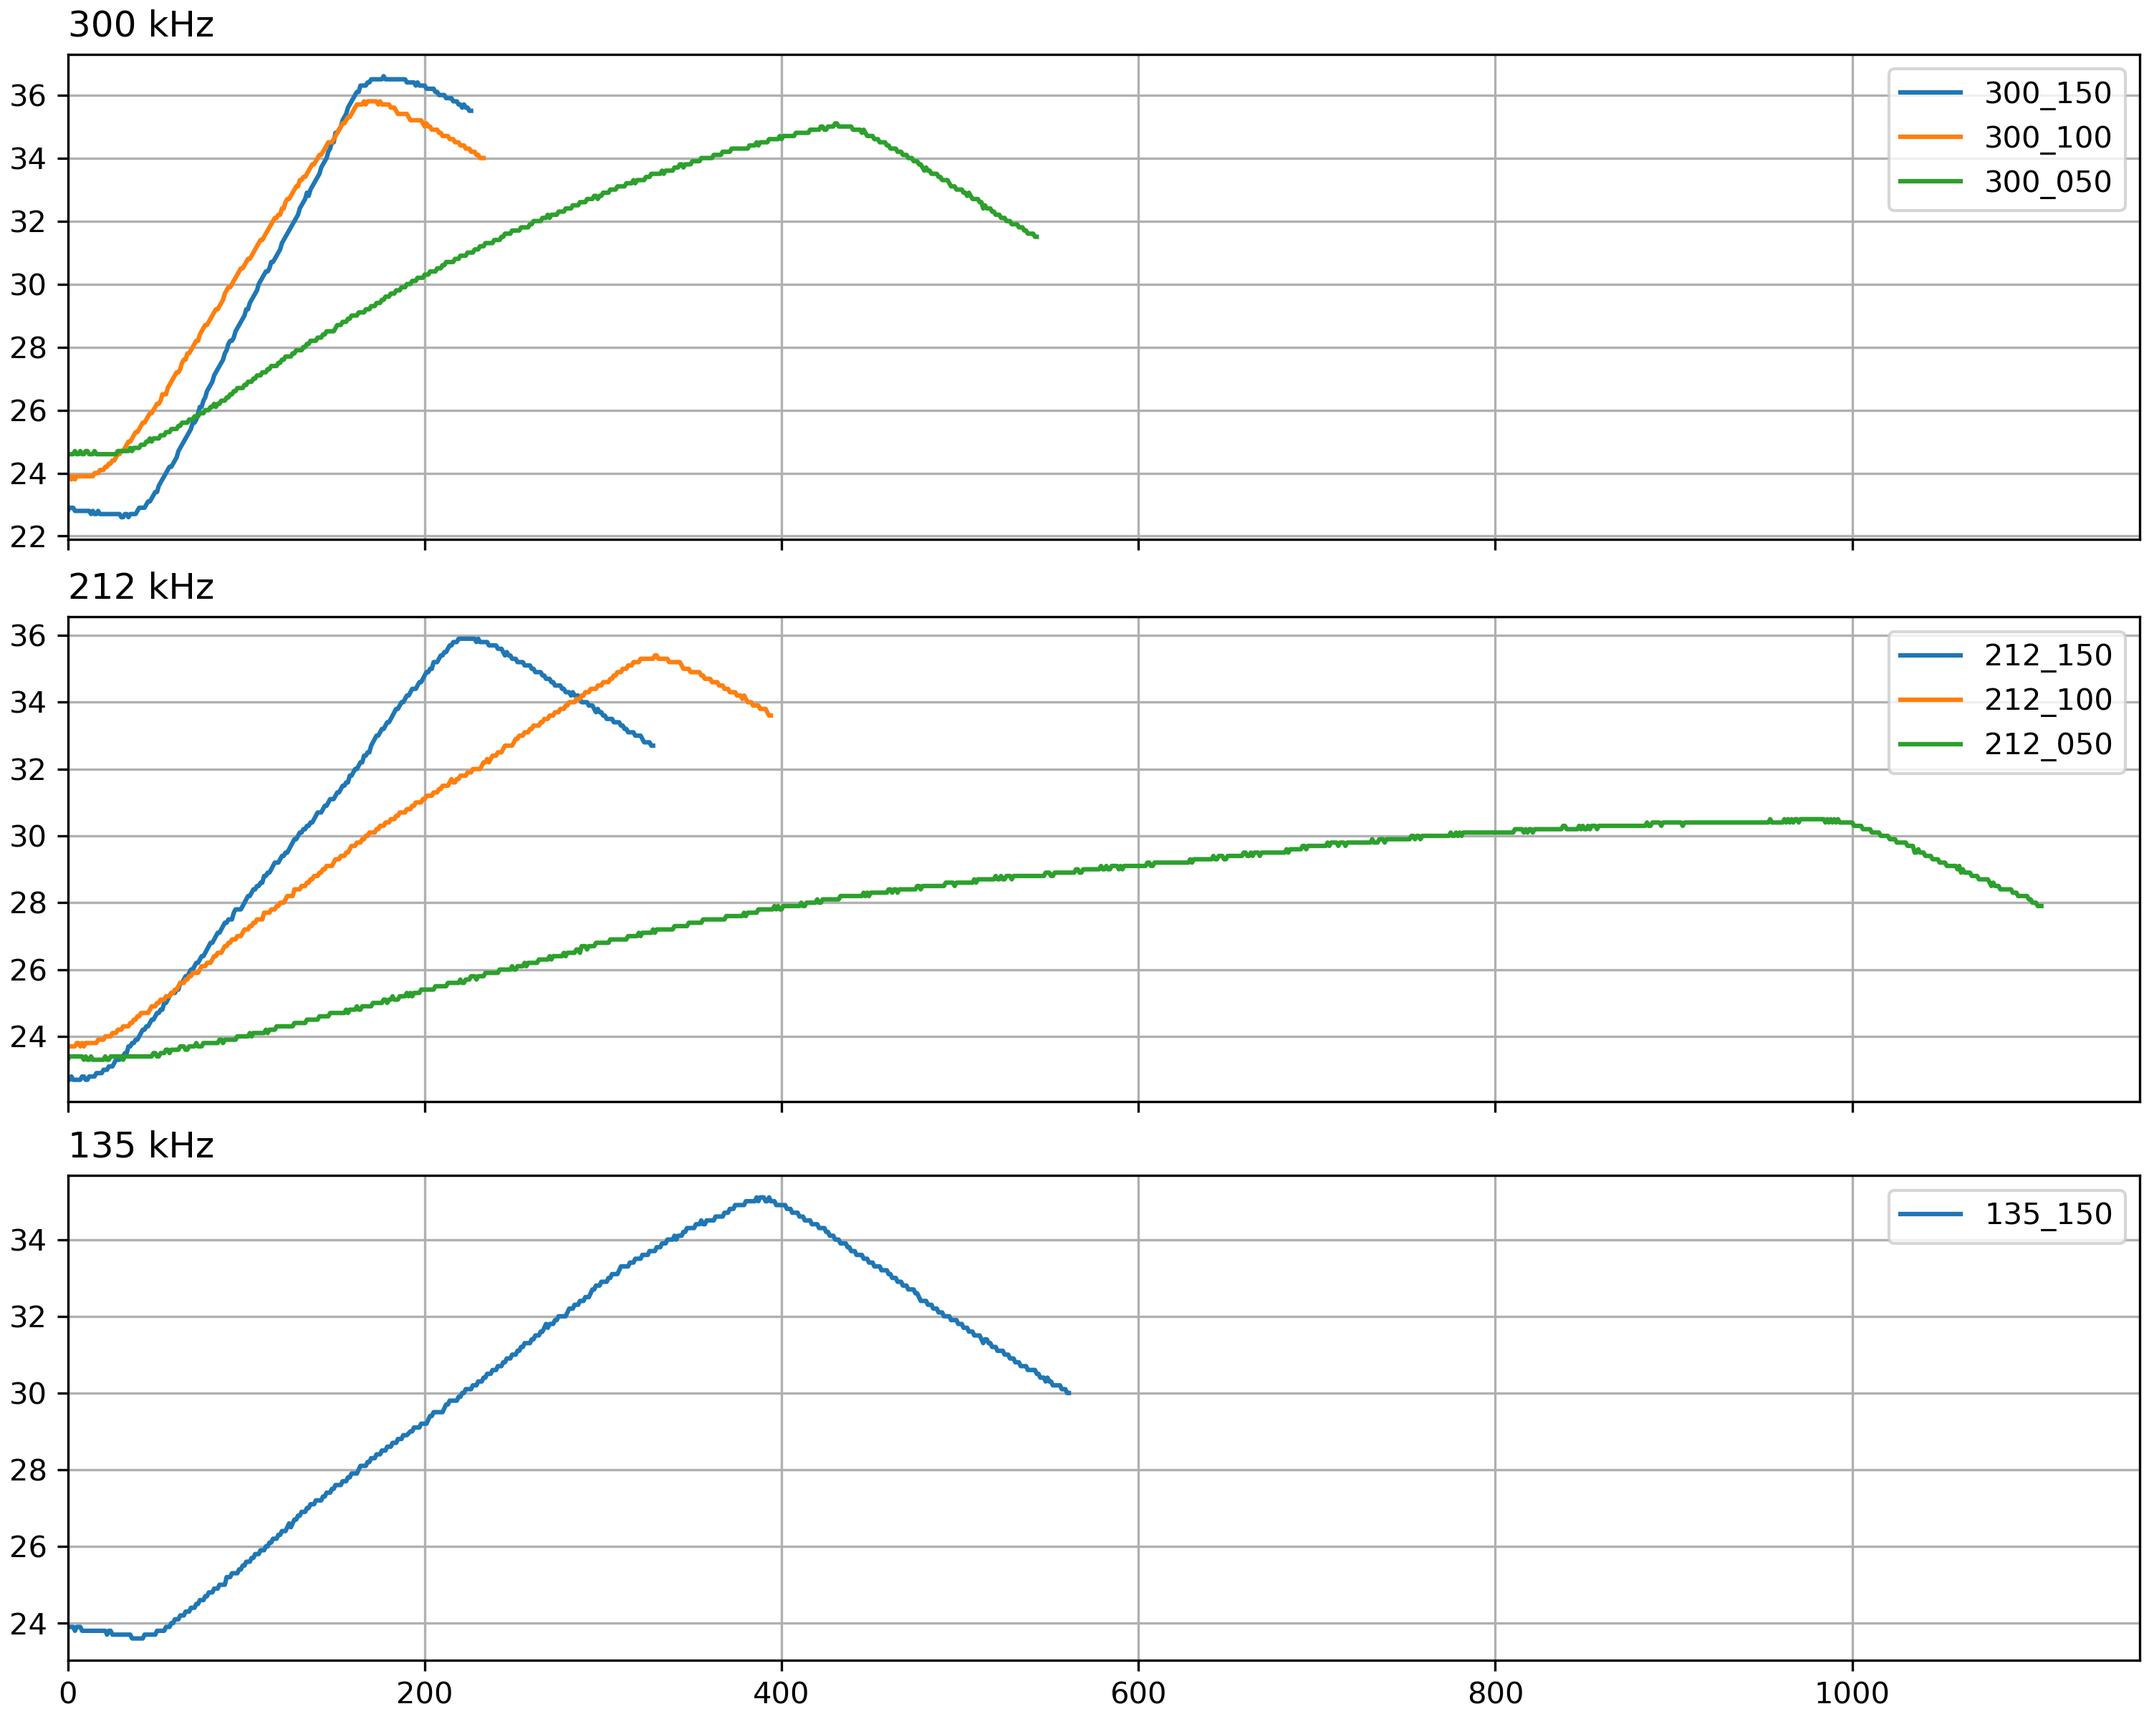
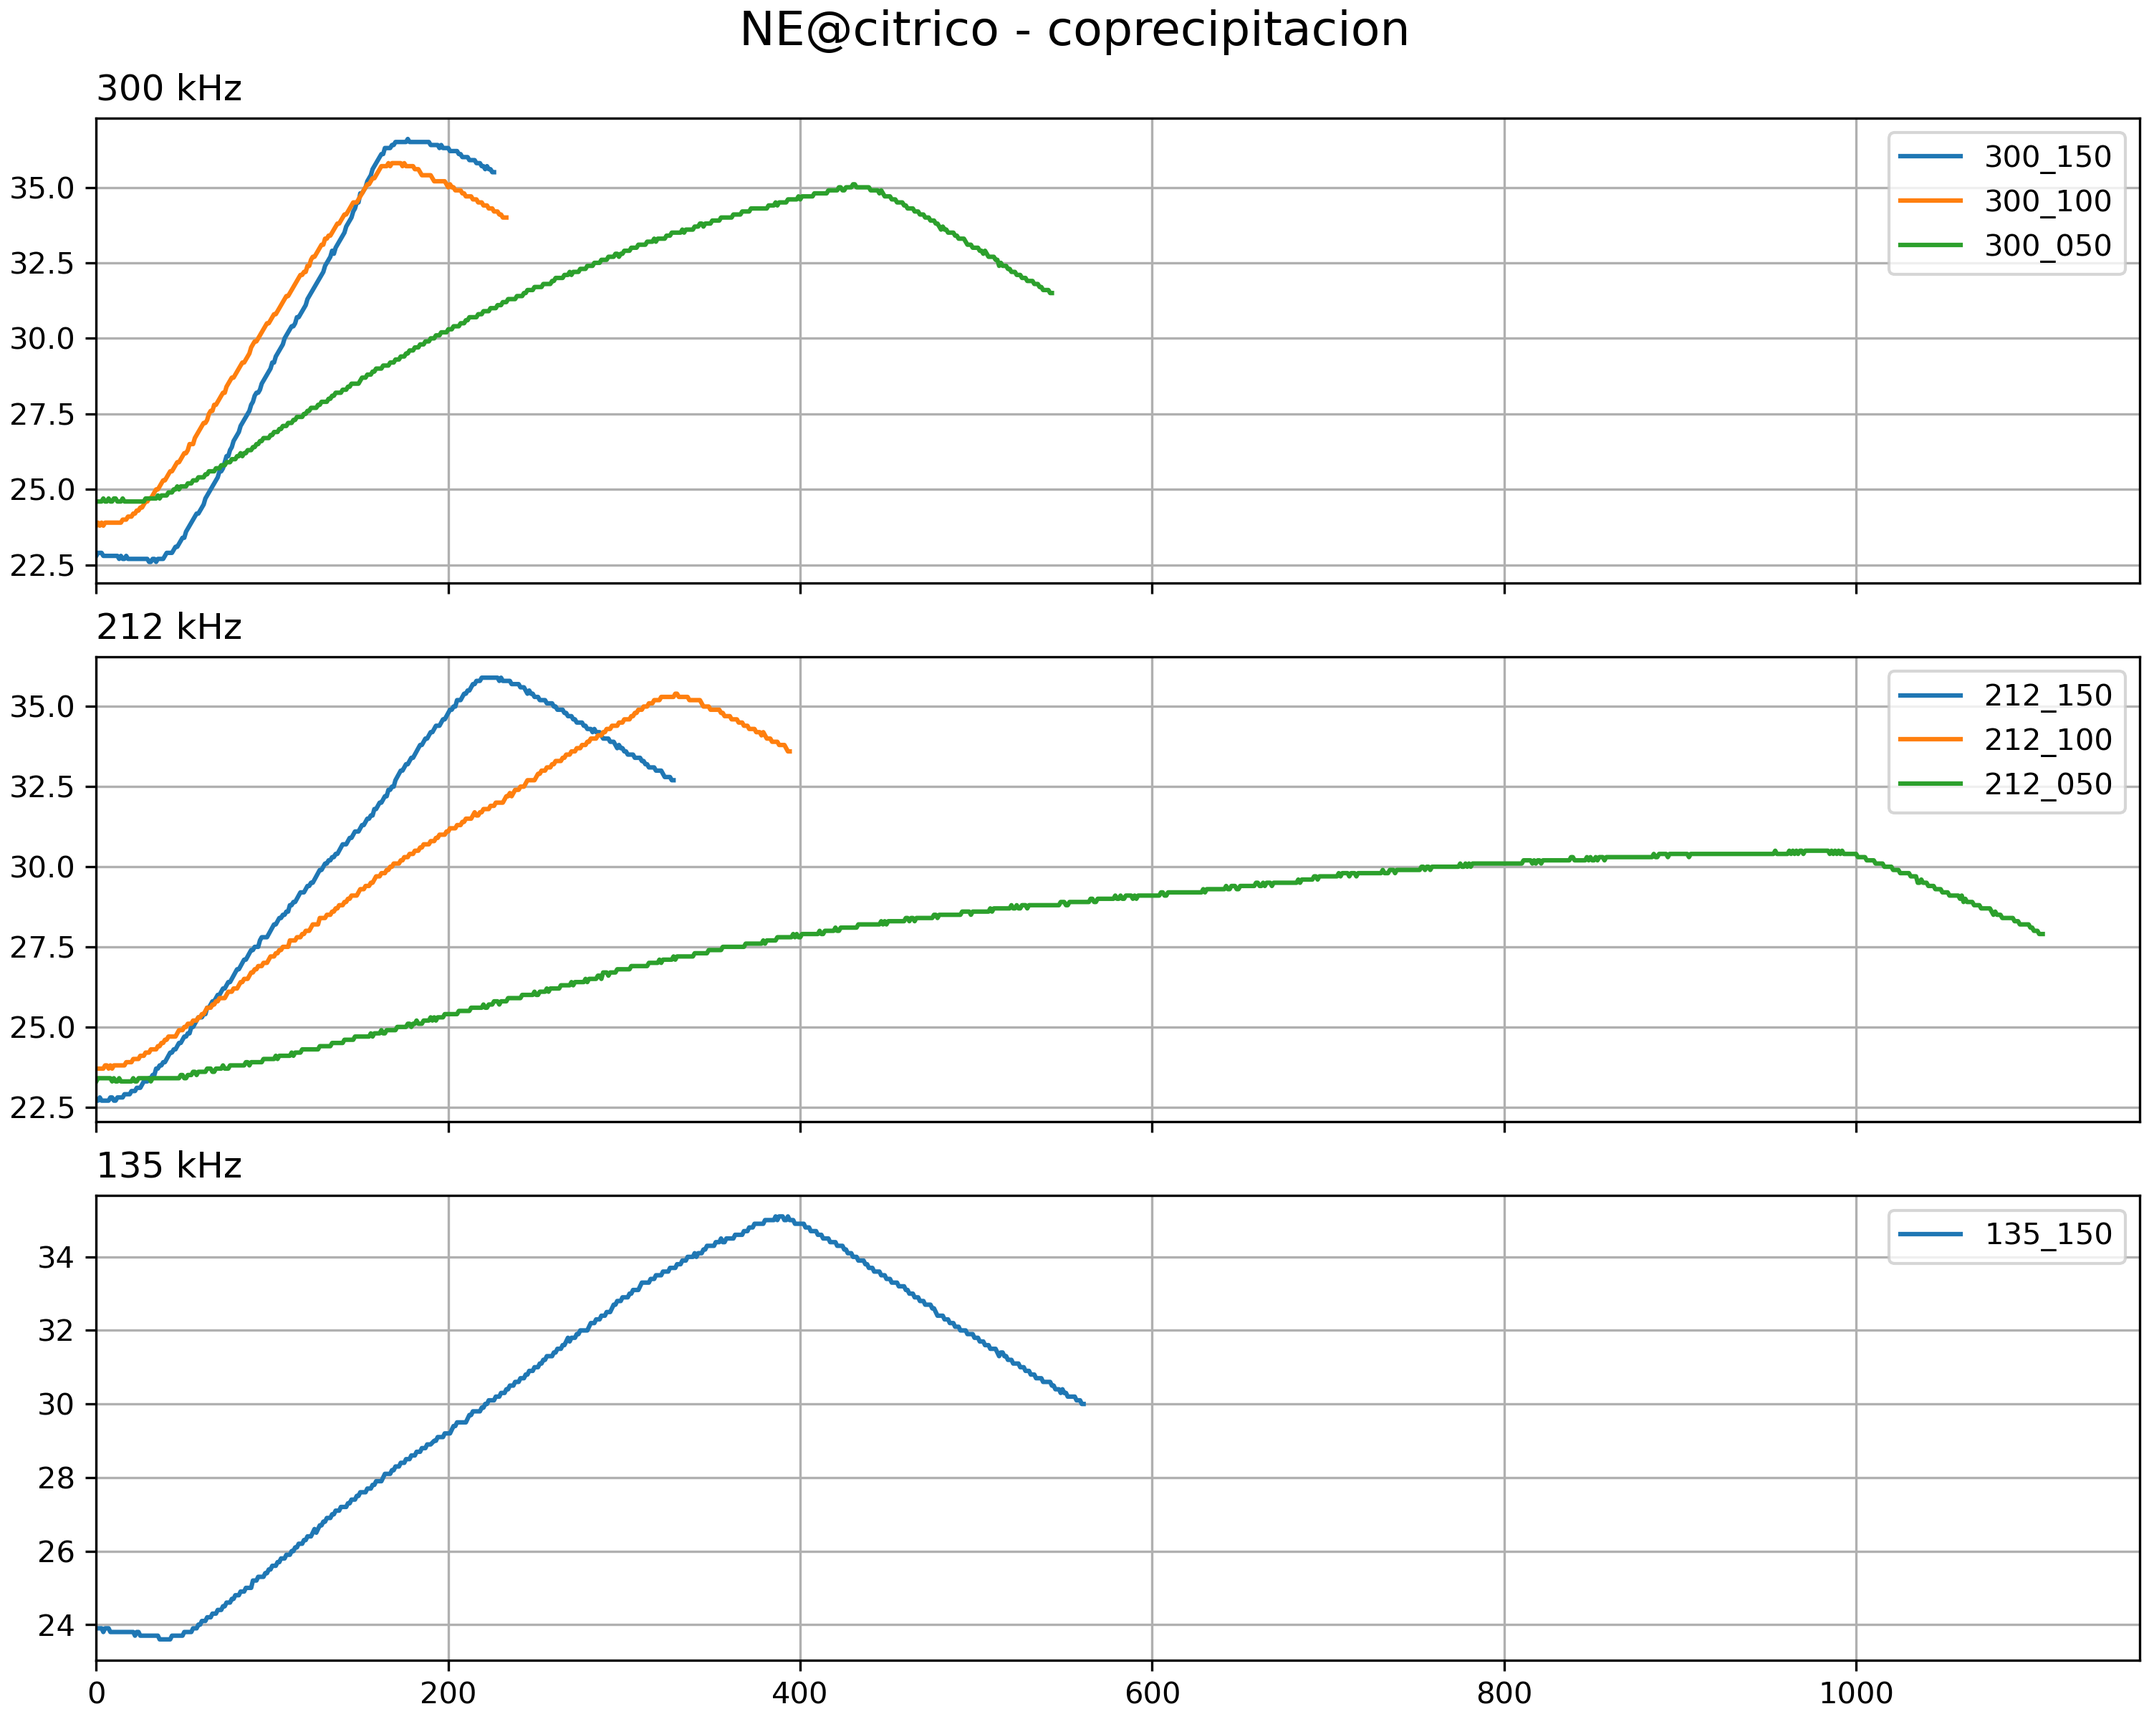
CSAR

diff --git a/CSAR.py b/CSAR.py
@@ -27,65 +27,164 @@ def lector_templog(path):
 
     return timestamp,temp_CH1, temp_CH2
 #%% Levanto data
+#NE
 # path_agua='250624_120427_agua.csv'
-path_300_150='NE@citrato - coprecipitacion/CSAR/260205_044538_300_150.csv'
-path_300_100='NE@citrato - coprecipitacion/CSAR/260205_045254_300_100.csv'
-path_300_050='NE@citrato - coprecipitacion/CSAR/260205_045843_300_050.csv' 
+path_NE_300_150='NE@citrato - coprecipitacion/CSAR/260205_044538_300_150.csv'
+path_NE_300_100='NE@citrato - coprecipitacion/CSAR/260205_045254_300_100.csv'
+path_NE_300_050='NE@citrato - coprecipitacion/CSAR/260205_045843_300_050.csv' 
 
-path_212_150='NE@citrato - coprecipitacion/CSAR/260205_051305_212_150.csv'
-path_212_100='NE@citrato - coprecipitacion/CSAR/260205_052035_212_100.csv'
-path_212_050='NE@citrato - coprecipitacion/CSAR/260205_052900_212_050.csv'
+path_NE_212_150='NE@citrato - coprecipitacion/CSAR/260205_051305_212_150.csv'
+path_NE_212_100='NE@citrato - coprecipitacion/CSAR/260205_052035_212_100.csv'
+path_NE_212_050='NE@citrato - coprecipitacion/CSAR/260205_052900_212_050.csv'
 
-path_135_150='NE@citrato - coprecipitacion/CSAR/260205_042615_135_150.csv'
+path_NE_135_150='NE@citrato - coprecipitacion/CSAR/260205_042615_135_150.csv'
 
-# # # t_agua,T_agua,_=lector_templog(path_agua)
-t_300_150,T_300_150,_=lector_templog(path_300_150)
-t_300_100,T_300_100,_=lector_templog(path_300_100)
-t_300_050,T_300_050,_=lector_templog(path_300_050)
+t_NE_300_150,T_NE_300_150,_=lector_templog(path_NE_300_150)
+t_NE_300_100,T_NE_300_100,_=lector_templog(path_NE_300_100)
+t_NE_300_050,T_NE_300_050,_=lector_templog(path_NE_300_050)
 
-t_212_150,T_212_150,_=lector_templog(path_212_150)
-t_212_100,T_212_100,_=lector_templog(path_212_100)
-t_212_050,T_212_050,_=lector_templog(path_212_050)
+t_NE_212_150,T_NE_212_150,_=lector_templog(path_NE_212_150)
+t_NE_212_100,T_NE_212_100,_=lector_templog(path_NE_212_100)
+t_NE_212_050,T_NE_212_050,_=lector_templog(path_NE_212_050)
 
-t_135_150,T_135_150,_=lector_templog(path_135_150)
+t_NE_135_150,T_NE_135_150,_=lector_templog(path_NE_135_150)
 
-# # # t_agua_0 = np.array([(t-t_agua[0]).total_seconds() for t in t_agua])
-t_300_150 = np.array([(t-t_300_150[0]).total_seconds() for t in t_300_150])
-t_300_100 = np.array([(t-t_300_100[0]).total_seconds() for t in t_300_100])
-t_300_050 = np.array([(t-t_300_050[0]).total_seconds() for t in t_300_050])
+t_NE_300_150 = np.array([(t-t_NE_300_150[0]).total_seconds() for t in t_NE_300_150])
+t_NE_300_100 = np.array([(t-t_NE_300_100[0]).total_seconds() for t in t_NE_300_100])
+t_NE_300_050 = np.array([(t-t_NE_300_050[0]).total_seconds() for t in t_NE_300_050])
 
-t_212_150 = np.array([(t-t_212_150[0]).total_seconds() for t in t_212_150])
-t_212_100 = np.array([(t-t_212_100[0]).total_seconds() for t in t_212_100])
-t_212_050 = np.array([(t-t_212_050[0]).total_seconds() for t in t_212_050])
+t_NE_212_150 = np.array([(t-t_NE_212_150[0]).total_seconds() for t in t_NE_212_150])
+t_NE_212_100 = np.array([(t-t_NE_212_100[0]).total_seconds() for t in t_NE_212_100])
+t_NE_212_050 = np.array([(t-t_NE_212_050[0]).total_seconds() for t in t_NE_212_050])
 
-t_135_150 = np.array([(t-t_135_150[0]).total_seconds() for t in t_135_150]) 
+t_NE_135_150 = np.array([(t-t_NE_135_150[0]).total_seconds() for t in t_NE_135_150])
 
-#%% Ploteo todo 
+
+
+#%%NF 
+path_agua='NF@citrato - solvotermal - concentrada/CSAR/260210_011936_135_150_agua.csv'
+path_NF_300_150='NF@citrato - solvotermal - concentrada/CSAR/260210_023412_NF_300_150.csv'
+path_NF_300_100='NF@citrato - solvotermal - concentrada/CSAR/260210_023827_NF_300_100.csv'
+path_NF_300_050='NF@citrato - solvotermal - concentrada/CSAR/260210_024507_NF_300_050.csv'
+path_NF_212_150='NF@citrato - solvotermal - concentrada/CSAR/260210_021428_NF_212_150.csv'
+path_NF_212_100='NF@citrato - solvotermal - concentrada/CSAR/260210_022109_NF_212_100.csv'
+path_NF_135_150='NF@citrato - solvotermal - concentrada/CSAR/260210_015944_NF_135_150.csv'
+
+t_eq,T_eq,_=lector_templog(path_agua)
+t_eq = np.array([(t-t_eq[0]).total_seconds() for t in t_eq])
+
+fig,ax=plt.subplots(figsize=(18,10), constrained_layout=True)
+ax.plot(t_eq,T_eq,'.-')
+ax.set_xlabel('t (s)')
+ax.set_ylabel('T (°C)')
+ax.grid()
+plt.title('Agua - NF@citrato - solvotermal - concentrada    ',loc='left')
+
+
+t_NF_300_150,T_NF_300_150,_=lector_templog(path_NF_300_150)
+t_NF_300_100,T_NF_300_100,_=lector_templog(path_NF_300_100)
+t_NF_300_050,T_NF_300_050,_=lector_templog(path_NF_300_050)
+
+t_NF_212_150,T_NF_212_150,_=lector_templog(path_NF_212_150)
+t_NF_212_100,T_NF_212_100,_=lector_templog(path_NF_212_100)
+
+t_NF_135_150,T_NF_135_150,_=lector_templog(path_NF_135_150) 
+
+t_NF_300_150 = np.array([(t-t_NF_300_150[0]).total_seconds() for t in t_NF_300_150])
+t_NF_300_100 = np.array([(t-t_NF_300_100[0]).total_seconds() for t in t_NF_300_100])
+t_NF_300_050 = np.array([(t-t_NF_300_050[0]).total_seconds() for t in t_NF_300_050])
+
+t_NF_212_150 = np.array([(t-t_NF_212_150[0]).total_seconds() for t in t_NF_212_150])
+t_NF_212_100 = np.array([(t-t_NF_212_100[0]).total_seconds() for t in t_NF_212_100])
+
+t_NF_135_150 = np.array([(t-t_NF_135_150[0]).total_seconds() for t in t_NF_135_150])
+#%% Ploteo NE
 fig, (ax,ax1,ax2)=plt.subplots(3,1,figsize=(10,8),constrained_layout=True,sharex=True)
 
 ax.set_title('300 kHz',loc='left')
-ax.plot(t_300_150,T_300_150,label='300_150')
-ax.plot(t_300_100,T_300_100,label='300_100')
-ax.plot(t_300_050,T_300_050,label='300_050')
+
+ax.plot(t_NE_300_150,T_NE_300_150,label='300_150')
+ax.plot(t_NE_300_100,T_NE_300_100,label='300_100')
+ax.plot(t_NE_300_050,T_NE_300_050,label='300_050')
 
 ax1.set_title('212 kHz',loc='left')
-ax1.plot(t_212_150,T_212_150,label='212_150')
-ax1.plot(t_212_100,T_212_100,label='212_100')
-ax1.plot(t_212_050,T_212_050,label='212_050')
+ax1.plot(t_NE_212_150,T_NE_212_150,label='212_150')
+ax1.plot(t_NE_212_100,T_NE_212_100,label='212_100')
+ax1.plot(t_NE_212_050,T_NE_212_050,label='212_050')
 
 ax2.set_title('135 kHz',loc='left')
-ax2.plot(t_135_150,T_135_150,label='135_150')    
-
-
-
+ax2.plot(t_NE_135_150,T_NE_135_150,label='135_150')    
 # ax.plot(t_FF2_0,T_FF2,label='FF2')
 for a in (ax,ax1,ax2):
     a.grid()
     a.legend()
     a.set_xlim(0,)
-
+plt.suptitle('NE@citrico - coprecipitacion',fontsize=16)
 plt.savefig('T_vs_t.png', dpi=300)
 plt.show()
+#%% Ploteo NF
+fig, (ax,ax1,ax2)=plt.subplots(3,1,figsize=(9,7),constrained_layout=True,sharex=True)
+
+ax.set_title('300 kHz',loc='left')
+ax.plot(t_NF_300_150,T_NF_300_150,'.-',label='300_150')
+ax.plot(t_NF_300_100,T_NF_300_100,'.-',label='300_100')
+ax.plot(t_NF_300_050,T_NF_300_050,'.-',label='300_050')
+
+ax1.set_title('212 kHz',loc='left')
+ax1.plot(t_NF_212_150,T_NF_212_150,'.-',label='212_150')
+ax1.plot(t_NF_212_100,T_NF_212_100,'.-',label='212_100')
+
+ax2.set_title('135 kHz',loc='left')
+ax2.plot(t_NF_135_150,T_NF_135_150,'.-',label='135_150')    
+# ax.plot(t_FF2_0,T_FF2,label='FF2')
+for a in (ax,ax1,ax2):
+    a.grid()
+    a.legend()
+    a.set_xlim(0,)
+plt.suptitle('NF@citrico - solvotermal - concentrada',fontsize=16)
+plt.savefig('T_vs_t_NF.png', dpi=300)
+plt.xlim(0,150)
+plt.show()
+#%% Rcorto a valor minimo
+# indx_min=np.nonzero(T_NE_300_150==T_NE_300_150.min())[0][0]
+indx_min=[]
+for i,e in enumerate([T_NE_300_150,T_NE_300_100,T_NE_300_050,
+                     T_NE_212_150,T_NE_212_100,T_NE_212_050,
+                     T_NE_135_150]):
+    indx_min.append(np.nonzero(e==e.min())[0][0])
+    print(f'Indice minimo {i} : {np.nonzero(e==e.min())[0][0]}')
+
+
+#%%
+%matplotlib inline
+fig, (ax,ax1,ax2)=plt.subplots(3,1,figsize=(10,8),constrained_layout=True,sharex=True)
+
+ax.set_title('300 kHz',loc='left')
+
+ax.plot(t_NE_300_150,T_NE_300_150,'o',label='300_150')
+ax.plot(t_NE_300_150[indx_min[0]:],T_NE_300_150[indx_min[0]:],'.',label='300_150')
+
+ax.plot(t_NE_300_100,T_NE_300_100,'.-',label='300_100')
+
+ax.plot(t_NE_300_050,T_NE_300_050,'.-',label='300_050')
+
+ax1.set_title('212 kHz',loc='left')
+
+ax1.plot(t_NE_212_150,T_NE_212_150,label='212_150')
+ax1.plot(t_NE_212_100,T_NE_212_100,label='212_100')
+#ax1.plot(t_NE_212_050,T_NE_212_050,label='212_050')
+
+ax2.set_title('135 kHz',loc='left')
+ax2.plot(t_NE_135_150,T_NE_135_150,'o',label='135_150')    
+ax2.plot(t_NE_135_150[indx_min[6]:],T_NE_135_150[indx_min[6]:],'.',label='135_150')    
+
+for a in (ax,ax1,ax2):
+    a.grid()
+    a.legend()
+    a.set_xlim(0,)
+plt.suptitle('NE@citrico - coprecipitacion',fontsize=16)
+plt.show()
+
 #%%
 def ajustes_lineal_T_arbitraria(Tcentral, t, T, label, x=1.0):
     """
@@ -169,8 +268,16 @@ def ajustes_lineal_T_arbitraria(Tcentral, t, T, label, x=1.0):
     
     return dict_lin
 #%%# Resultados 
-resultados_FF1 = ajustes_lineal_T_arbitraria(23.0, t_FF1_0, T_FF1,'FF1', x=2)
-resultados_FF2 = ajustes_lineal_T_arbitraria(24.0, t_FF2_0, T_FF2,'FF2', x=5)
+# resultados_FF1 = ajustes_lineal_T_arbitraria(23.0, t_FF1_0, T_FF1,'FF1', x=2)
+# resultados_FF2 = ajustes_lineal_T_arbitraria(24.0, t_FF2_0, T_FF2,'FF2', x=5)
+
+resultados_NE_300_150 = ajustes_lineal_T_arbitraria(29.7, t_NE_300_150, T_NE_300_150,'NE 300_150', x=2.5)
+resultados_NE_300_100 = ajustes_lineal_T_arbitraria(29.8, t_NE_300_100, T_NE_300_100,'NE 300_100', x=2.5)
+
+
+
+
+
 #%%
 concentracion=ufloat(11.3,0.4)
 dTdt_lineal_promedio=np.mean([resultados_FF1['pendiente'],resultados_FF2['pendiente']])

diff --git a/procesador_ciclos_analisis_automatico.py b/procesador_ciclos_analisis_automatico.py
@@ -66,7 +66,7 @@ N_espiras_bob_captora=1
 nombre='*NF@citrato_conc 260203'
 Analisis_de_Fourier = 1 # sobre las señales, imprime espectro de señal muestra
 N_armonicos_impares = 11
-concentracion =(12.6)*1e3 #[concentracion]= g/m^3 (1 g/l == 1e3 g/m^3) (Default = 10000 g/m^3)
+concentracion =(13)*1e3 #[concentracion]= g/m^3 (1 g/l == 1e3 g/m^3) (Default = 10000 g/m^3)
 capsula_glucosa=0   # capsula para solventes organicos
 detector_ciclos_descartables=True #en funcion a Mag max para evitar guardar/promediar con ciclos in/out
 Ciclo_promedio=1
